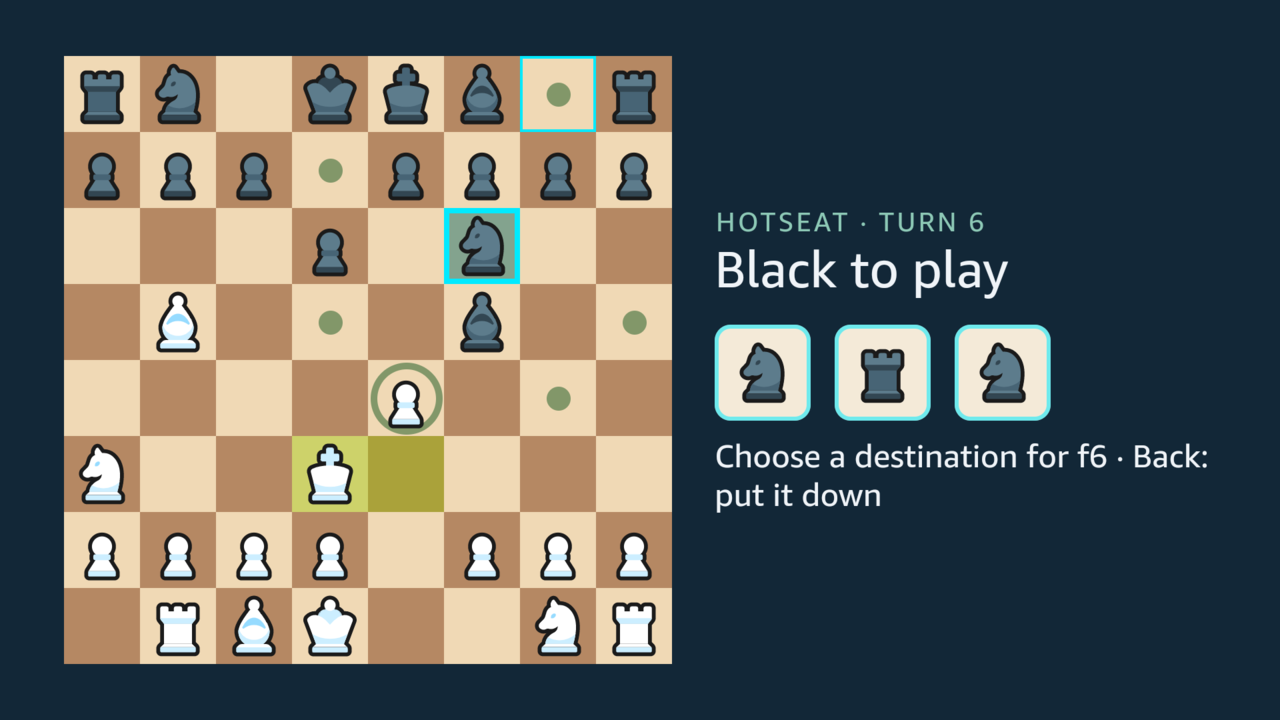
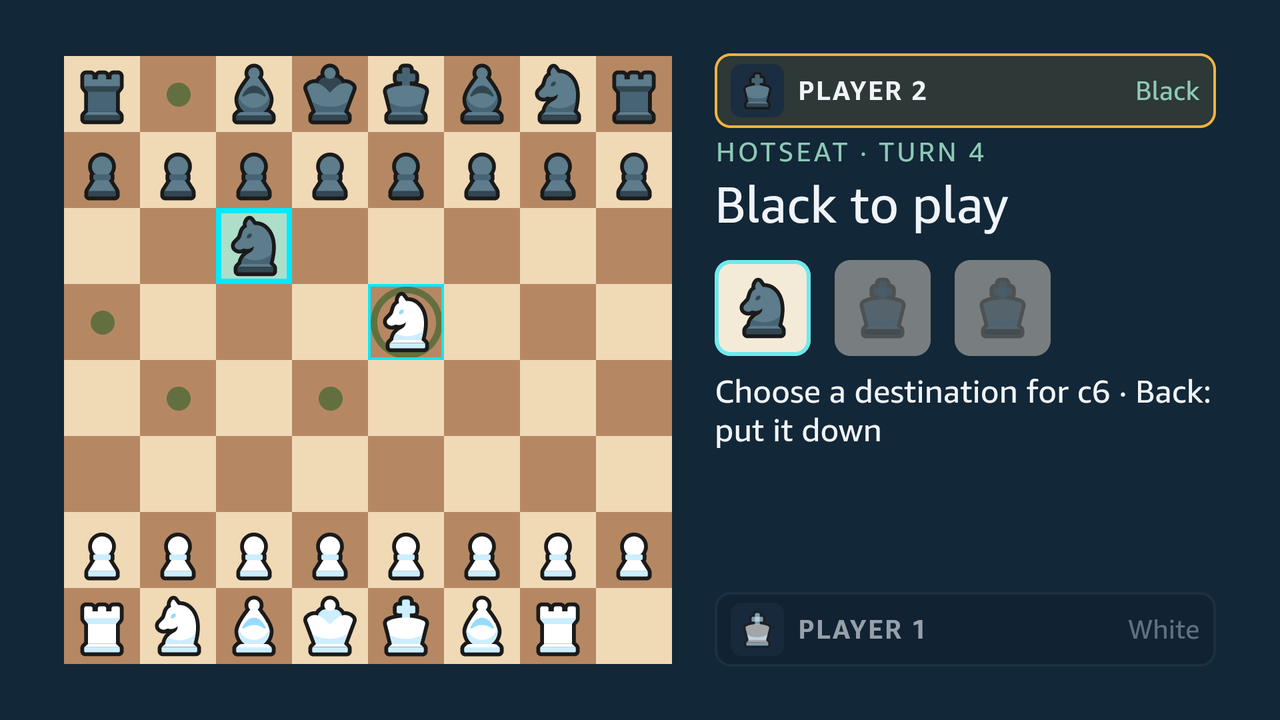
docs: refresh Dice Chess TV screenshot and project links (#339)
- Update dicechess-tv-hotseat.png with the latest capture from the TV project, showing the matchup header, spent dice state, and cursor landed on the e5 knight capture.
- Point the project links to the canonical domain https://dicechess-tv.fortemate.com/.
- Update the demo video link to the Thinkle-narrated walkthrough https://youtu.be/LG_vw53uvQU.
- Adjust the screenshot alt text to match the updated board state.

diff --git a/docs/src/content/docs/guides/integrations.md b/docs/src/content/docs/guides/integrations.md
@@ -70,7 +70,7 @@ Its source illustrates an integration; it is not a finished product.
 
 ### Dice Chess TV
 
-[Dice Chess TV](https://fortemate.github.io/dicechess-tv/) uses **React Native for Vega** for
+[Dice Chess TV](https://dicechess-tv.fortemate.com/) uses **React Native for Vega** for
 its native screens and remote input, with a pure TypeScript game controller calling
 `@fortemate/dicechess-engine`. It follows the engine's legal turn tree and reads the dice
 left from `applyMove`, rather than implementing a second set of rules.
@@ -79,7 +79,7 @@ Hotseat play, on-device opponents and mid-turn save/resume show how the library 
 offline application. The TV app owns D-pad navigation, board rendering, sound and saved-game
 storage. The engine owns legal turns and bot decisions.
 
-The project's [demo](https://www.youtube.com/watch?v=Q7wWAmUp2Sc) was recorded on the
+The project's [demo](https://youtu.be/LG_vw53uvQU) was recorded on the
 **Vega Virtual Device**. Consult the TV project's current testing information for physical
 Fire TV coverage; this integration is not a claim of compatibility with every TV platform
 or every React Native runtime.
